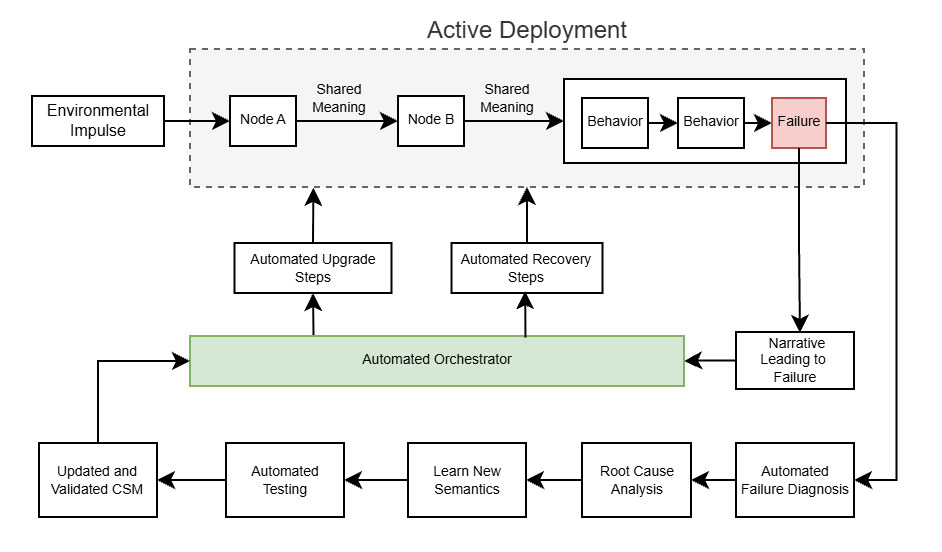
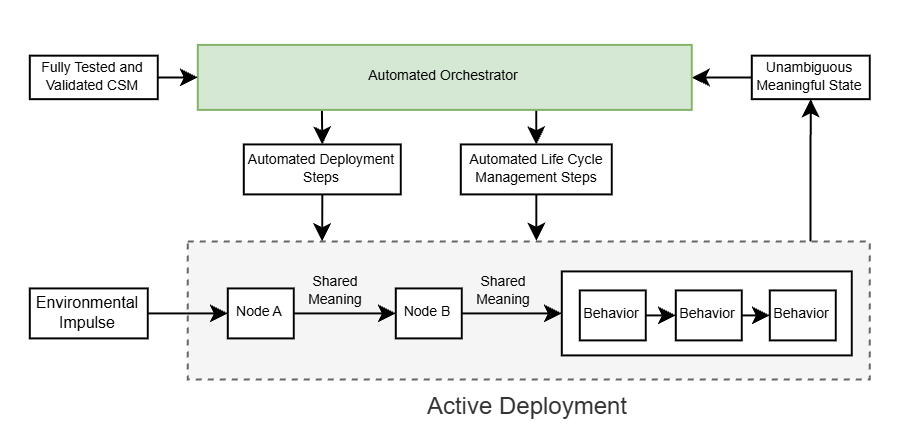
Add automated management diagram for deployment and lifecycle.

Changed region(s): [[0.0311, 0.0302, 0.9956, 0.9674]]

diff --git a/workbench/docs/DLP.md b/workbench/docs/DLP.md
@@ -199,9 +199,11 @@ Once again, this is made possible by eliminating the ambiguity in the meaning of
 
 The failure in this narrative won't actually happen because the invariants in the CSM would have identified it and testing would have eliminated it. However, it is a simple example to convey the idea and this extends to distributed systems naturally because the designs have shared meaning. While recovering from failures are one part of the orchestration, the same principle applies to life cycle managent because the meaning of the systems state is unambiguous and the response to it is unambiguous.
 
+![DLP](../assets/AutomatedManagement.png)
+
 This means that the manager must be designed to respond appropriately to every meaningful state in the design it is managing. Practically, it won't have to account for every narrative, instead, each design can self identify the states that will need to be managed and internally group narratives into meaningful states. Through this, an enumeration of every meaningful state can be obtained from the design and the manager can be tested to ensure that responds appropriately. 
 
-![DLP](../assets/AutomatedManagement.png)
+![DLP](../assets/AutomatedManagementFailure.png)
 
 When a failure occurs, automated failure diagnosis is performed and the diagnostic data is presented to the developer for root cause analysis to deterministically learn new semantics and prevent future failures. Once the design learns new semantics and it is automatically tested and validated, the automated orchestrator can upgrade the design with the updated CSM. 
 
